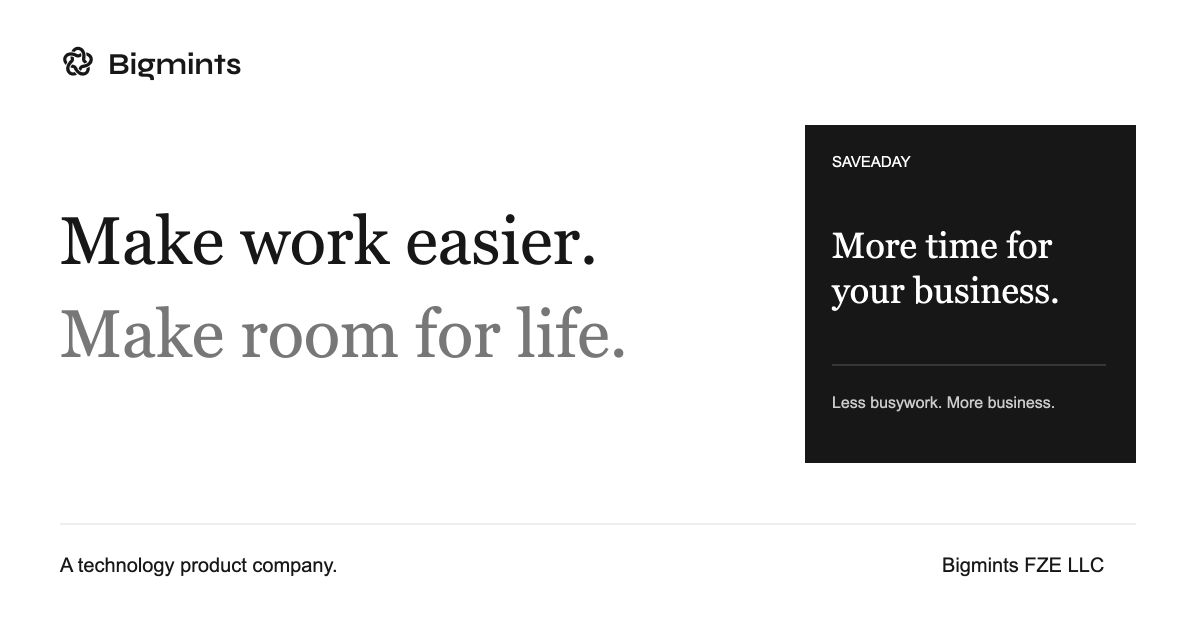
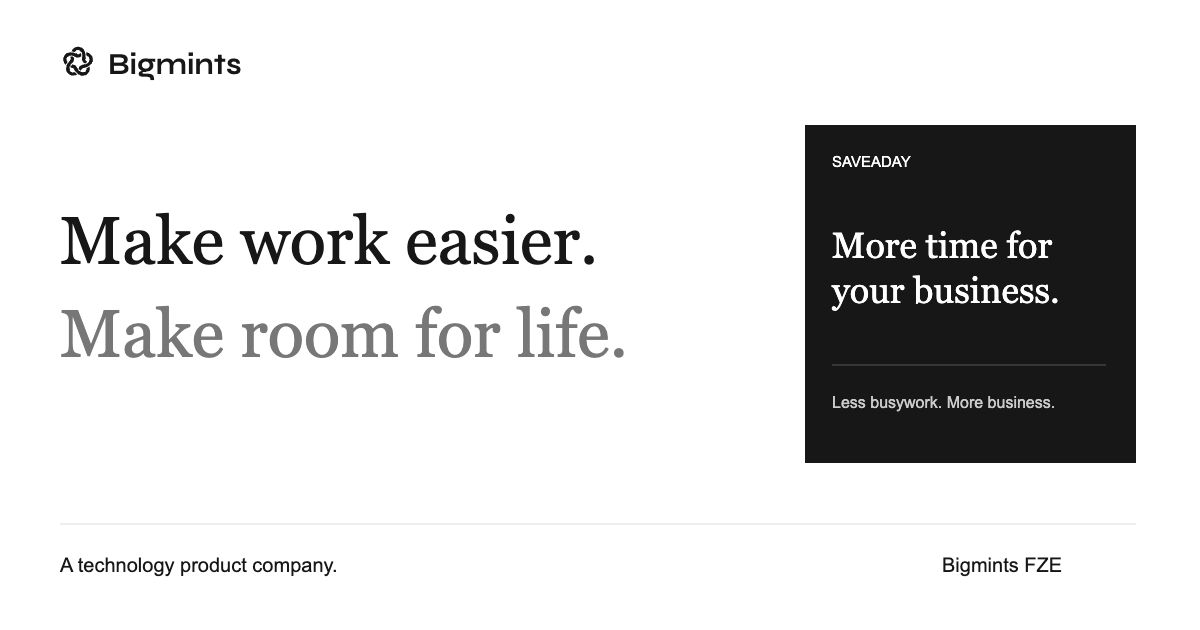
Align Bigmints legal identity and public profiles

diff --git a/App.tsx b/App.tsx
@@ -286,7 +286,7 @@ function Home() {
           </div>
           <div>
             <p className="large-copy">
-              Bigmints FZE LLC creates, owns and grows products for better ways
+              Bigmints FZE creates, owns and grows products for better ways
               to work, create and connect.
             </p>
             <p>
@@ -462,7 +462,7 @@ function CompanyPage() {
   return (
     <>
       <PageIntro
-        eyebrow="BIGMINTS FZE LLC"
+        eyebrow="BIGMINTS FZE"
         title="A product company."
         emphasis="A family of possibilities."
         description="We create, own and grow our own brands. Each starts with an everyday need and becomes a product with a purpose of its own."
@@ -480,7 +480,8 @@ function CompanyPage() {
             </h2>
             <div>
               <p className="large-copy">
-                Bigmints FZE LLC is a technology product company. We create, own
+                Bigmints is the brand name of Bigmints FZE, a technology product
+                company. We create, own
                 and grow a family of brands for better ways to work, create and
                 connect.
               </p>
@@ -507,6 +508,29 @@ function CompanyPage() {
               </a>
             </div>
           </div>
+          <section className="company-facts" aria-labelledby="company-facts-heading">
+            <h2 id="company-facts-heading">Bigmints at a glance</h2>
+            <dl>
+              <div>
+                <dt>Company name</dt><dd>{company.name}</dd>
+              </div>
+              <div>
+                <dt>What we do</dt><dd>{company.category}</dd>
+              </div>
+              <div>
+                <dt>Official website</dt>
+                <dd><a href={company.url}>www.bigmints.com</a></dd>
+              </div>
+              <div>
+                <dt>Find us online</dt>
+                <dd>{company.profiles.map((profile) => (
+                  <a key={profile.name} href={profile.url}>
+                    {company.displayName} on {profile.name} <Arrow />
+                  </a>
+                ))}</dd>
+              </div>
+            </dl>
+          </section>
           <div className="principles">
             {[
               [
@@ -564,7 +588,7 @@ function ContactPage() {
         eyebrow="CONTACT BIGMINTS"
         title="A conversation about"
         emphasis="what comes next."
-        description="For company enquiries, product conversations and partnerships, get in touch with Bigmints FZE LLC."
+        description="For company enquiries, product conversations and partnerships, get in touch with Bigmints FZE."
       />
       <section className="wrap contact-options">
         <div className="contact-company">
@@ -749,6 +773,9 @@ function Footer() {
           <a href="/company/">Company</a>
           <a href="/innovation/">Innovation</a>
           <a href="/contact/">Contact</a>
+          {company.profiles.map((profile) => (
+            <a key={profile.name} href={profile.url}>{profile.name}</a>
+          ))}
           <a href="/llms.txt">Company &amp; product index</a>
         </nav>
         <a href="/products/">
@@ -756,7 +783,7 @@ function Footer() {
         </a>
       </div>
       <div className="footer-bottom">
-        <span>© {new Date().getFullYear()} Bigmints FZE LLC</span>
+        <span>© {new Date().getFullYear()} Bigmints FZE</span>
         <span>Technology innovation. Human possibility.</span>
         <a href="#top">Back to top ↑</a>
       </div>

diff --git a/src/company/content.ts b/src/company/content.ts
@@ -1,9 +1,15 @@
 export const company = {
-  name: "Bigmints FZE LLC",
+  name: "Bigmints FZE",
+  displayName: "Bigmints",
+  alternateNames: ["BigMints", "Bigmints FZE"],
+  category: "Technology product company",
+  profiles: [
+    { name: "LinkedIn", url: "https://www.linkedin.com/company/bigmints/" },
+  ],
   url: "https://www.bigmints.com",
-  title: "Bigmints — Technology Product Company | AI, IoT & Digital Twins",
+  title: "Bigmints FZE — Technology Product Company",
   description:
-    "Bigmints FZE LLC is the technology product company behind Saveaday, Youbot, Starcraft, PicoRunner, Fikr and Kachu. Products for work, ideas and everyday life.",
+    "Bigmints FZE is the technology product company behind Saveaday, Youbot, Starcraft, PicoRunner, Fikr and Kachu. Products for work, ideas and everyday life.",
   contact: "mailto:me@bigmints.com?subject=Bigmints%20company%20enquiry",
 };
 export const brands = [
@@ -323,9 +329,9 @@ export const sitePages = {
   },
   "/company/": {
     label: "Company",
-    title: "About Bigmints FZE LLC | A Technology Product Company",
+    title: "About Bigmints FZE | A Technology Product Company",
     description:
-      "Bigmints FZE LLC creates, owns and grows its own family of technology products. Meet the company behind Saveaday, Youbot, Starcraft, PicoRunner, Fikr and Kachu.",
+      "Bigmints FZE creates, owns and grows its own family of technology products. Meet the company behind Saveaday, Youbot, Starcraft, PicoRunner, Fikr and Kachu.",
     schemaType: "AboutPage",
   },
   "/innovation/": {
@@ -337,9 +343,9 @@ export const sitePages = {
   },
   "/contact/": {
     label: "Contact",
-    title: "Contact Bigmints FZE LLC | Company & Partnerships",
+    title: "Contact Bigmints FZE | Company & Partnerships",
     description:
-      "Contact Bigmints FZE LLC for company enquiries and partnerships, or find the website for each of our six product brands.",
+      "Contact Bigmints FZE for company enquiries and partnerships, or find the website for each of our six product brands.",
     schemaType: "ContactPage",
   },
 };
@@ -373,7 +379,7 @@ export function getPage(path: string) {
       : brand
       ? `${brand.name} — ${brand.searchLabel} | Bigmints`
       : capability
-        ? `${capability.name} | Bigmints FZE LLC`
+        ? `${capability.name} | Bigmints FZE`
         : page?.title ||
           (path === "/" ? company.title : "Page not found | Bigmints"),
     description:

diff --git a/src/company/company.css b/src/company/company.css
@@ -534,6 +534,42 @@ p {
   margin-top: 76px;
   padding-top: 32px;
 }
+.company-facts {
+  margin-top: 64px;
+  padding-top: 32px;
+  border-top: 1px solid #5a5a5a;
+}
+.company-facts h2 {
+  font-size: 26px;
+}
+.company-facts dl {
+  display: grid;
+  grid-template-columns: repeat(2, minmax(0, 1fr));
+  gap: 28px 48px;
+  margin-top: 28px;
+}
+.company-facts dt {
+  color: #bfbfbf;
+  font-size: 12px;
+  margin-bottom: 8px;
+}
+.company-facts dd {
+  margin: 0;
+  font-size: 16px;
+  overflow-wrap: anywhere;
+}
+.company-facts dd a {
+  display: inline-flex;
+  align-items: center;
+  gap: 6px;
+  text-decoration: underline;
+  text-underline-offset: 4px;
+}
+@media (max-width: 600px) {
+  .company-facts dl {
+    grid-template-columns: 1fr;
+  }
+}
 .principles > div {
   position: relative;
   padding-left: 29px;

diff --git a/scripts/generate-logo.py b/scripts/generate-logo.py
@@ -53,6 +53,26 @@ social = f'''<svg xmlns="http://www.w3.org/2000/svg" width="1200" height="630" v
 <text x="832" y="408" font-family="Arial" font-size="16" fill="#cccccc">Less busywork. More business.</text>
 <path d="M60 524H1136" stroke="#dddddd"/>
 <text x="60" y="572" font-family="Arial" font-size="20" fill="#171717">A technology product company.</text>
-<text x="942" y="572" font-family="Arial" font-size="20" fill="#171717">Bigmints FZE LLC</text>
+<text x="942" y="572" font-family="Arial" font-size="20" fill="#171717">Bigmints FZE</text>
 </svg>'''
 Path('src/company/public/brand/social-preview.svg').write_text(social)
+
+# Social profiles use the same approved mark and wordmark as the website.
+avatar = f'''<svg xmlns="http://www.w3.org/2000/svg" width="400" height="400" viewBox="0 0 400 400">
+<rect width="400" height="400" fill="white"/>
+<g transform="translate(72 72) scale(2)">{mark('profile-avatar','#171717')}</g>
+</svg>'''
+Path('src/company/public/brand/profile-avatar.svg').write_text(avatar)
+cover = f'''<svg xmlns="http://www.w3.org/2000/svg" width="1128" height="191" viewBox="0 0 1128 191">{font_style}
+<rect width="1128" height="191" fill="white"/>
+<g transform="translate(290 28) scale(.27)">{mark('profile-cover','#171717')}</g>
+<text x="334" y="55" font-family="Syne,Arial,sans-serif" font-size="28" font-weight="600" fill="#171717">Bigmints</text>
+<text x="290" y="103" font-family="Georgia,serif" font-size="32" fill="#171717">Make work easier.</text>
+<text x="290" y="144" font-family="Georgia,serif" font-size="32" fill="#777">Make room for life.</text>
+<path d="M736 40V150" stroke="#ddd"/>
+<text x="770" y="64" font-family="Arial,sans-serif" font-size="13" fill="#171717">A technology product company.</text>
+<text x="770" y="98" font-family="Arial,sans-serif" font-size="12" fill="#555">Saveaday · Youbot · Starcraft</text>
+<text x="770" y="119" font-family="Arial,sans-serif" font-size="12" fill="#555">PicoRunner · Fikr · Kachu</text>
+<text x="770" y="151" font-family="Arial,sans-serif" font-size="12" fill="#171717">www.bigmints.com</text>
+</svg>'''
+Path('src/company/public/brand/profile-cover.svg').write_text(cover)

diff --git a/README.md b/README.md
@@ -1,4 +1,4 @@
-# Bigmints FZE LLC
+# Bigmints FZE
 
 Product-company website for Bigmints, with Home, Products, Company, Innovation and Contact pages, plus six brand pages and four technology focus pages. React + Vite, pre-rendered to static HTML for GitHub Pages at https://www.bigmints.com.
 
@@ -68,9 +68,23 @@ For indexing measurement, the site owner can submit `https://www.bigmints.com/si
 
 The production build generates nineteen pages plus a noindex 404. The completed output was checked for unique titles, one H1 per page, canonical URLs, valid structured breadcrumbs, internal links and anchors, sitemap coverage and no visible contact email. Browser checks covered top-level navigation, direct product-page loading, mobile navigation, contact presentation and the earlier `#brands` bookmark.
 
+## Online presence
+
+Bigmints is the brand name of Bigmints FZE. Keep that identity and the description “technology product company” consistent across the website and company profiles. Public copy should connect the company to Saveaday, Youbot, Starcraft, PicoRunner, Fikr and Kachu.
+
+The confirmed company profile is [BigMints on LinkedIn](https://www.linkedin.com/company/bigmints/), which links back to the company domain. Its URL is maintained in `company.profiles` in `src/company/content.ts`; the site renders it on the Company page and footer and includes it in Organization `sameAs` and both generated agent reference files. Add further profiles only after verifying company ownership. The Organization also includes the public brand and legal-name variants and identifies `/company/` as its main page. See [Google’s organization guidance](https://developers.google.com/search/docs/appearance/structured-data/organization).
+
+Search Console was checked on 16 October 2026 using the existing `bigmints.com` domain property. At that time its overview reported one indexed page, and URL inspection reported `/company/` as unknown to Google. The live sitemap was submitted successfully at `https://www.bigmints.com/sitemap.xml`; Search Console reported **Success** and **19 discovered pages**. Discovery is not confirmation of indexing. A separate manual indexing request for `/company/` failed because Search Console could not connect to its reCAPTCHA service. Retry from URL Inspection when that service is available; the accepted sitemap remains in place.
+
+The LinkedIn tagline and About description were updated on 16 October 2026 to identify the legal company and explain all six products. The About copy retains “Make work easier. Make room for life.” as its opening. LinkedIn rejected the secondary website, industry and specialties edits with a concurrent-edit error; those changes were discarded. Remaining profile updates are the HTTPS website URL, Software Development industry, and specialties: Product Development, Artificial Intelligence, Product Design, Software Development, Internet of Things and Digital Twins.
+
+The owner confirmed that Bigmints operates online only. It is therefore ineligible for a Google Business Profile under [Google’s eligibility rules](https://support.google.com/business/answer/3038177); do not create a Maps listing using its registration address. The signed-in Google account also manages an unverified Bapp profile, which is a separate product profile.
+
+Meta’s Authorizations and verifications workflow reported **Bigmints FZE — In review** on 16 October 2026. This is the organization verification offered through the business portfolio’s advertiser authorizations; it is not confirmation of a paid Meta Verified badge or approval of every Meta verification program. Legal verification documents remain outside this public repository.
+
 ## Brand identity
 
-The selected Bigmints mark is the **woven, five-part emblem** from the “A connected whole” identity reference. Its path geometry is preserved in `design/previous-identity/woven-mark.svg` and reused by the generator, with slightly stronger strokes and adjusted crossing gaps for clarity at small sizes. The emblem-to-text ratio matches the selected reference; the Syne wordmark is retained. This is the approved design direction; formal trademark clearance remains pending. Black and white SVG versions and an identity sheet are in `src/company/public/brand/`. The mark is used in the header, footer, favicon, Organization metadata and social preview. Run `python3 scripts/generate-logo.py` from the repository root to regenerate the SVG geometry. The script also generates `brand/social-preview.svg`; render it in a browser at exactly 1200 × 630 pixels and export a PNG to update `og-image.png` (the local ImageMagick SVG renderer drops the stroked mark). The earlier woven concept is archived in `design/previous-identity/`, and the three-option comparison remains in `design/logo-options/`.
+The selected Bigmints mark is the **woven, five-part emblem** from the “A connected whole” identity reference. Its path geometry is preserved in `design/previous-identity/woven-mark.svg` and reused by the generator, with slightly stronger strokes and adjusted crossing gaps for clarity at small sizes. The emblem-to-text ratio matches the selected reference; the Syne wordmark is retained. This is the approved design direction; formal trademark clearance remains pending. Black and white SVG versions and an identity sheet are in `src/company/public/brand/`. The mark is used in the header, footer, favicon, Organization metadata and social preview. Run `python3 scripts/generate-logo.py` from the repository root to regenerate the SVG geometry. The script also generates the editable `brand/profile-avatar.svg`, `brand/profile-cover.svg` and `brand/social-preview.svg`; render it in a browser at exactly 1200 × 630 pixels and export a PNG to update `og-image.png` (the local ImageMagick SVG renderer drops the stroked mark). The earlier woven concept is archived in `design/previous-identity/`, and the three-option comparison remains in `design/logo-options/`.
 
 ### Product logos
 
